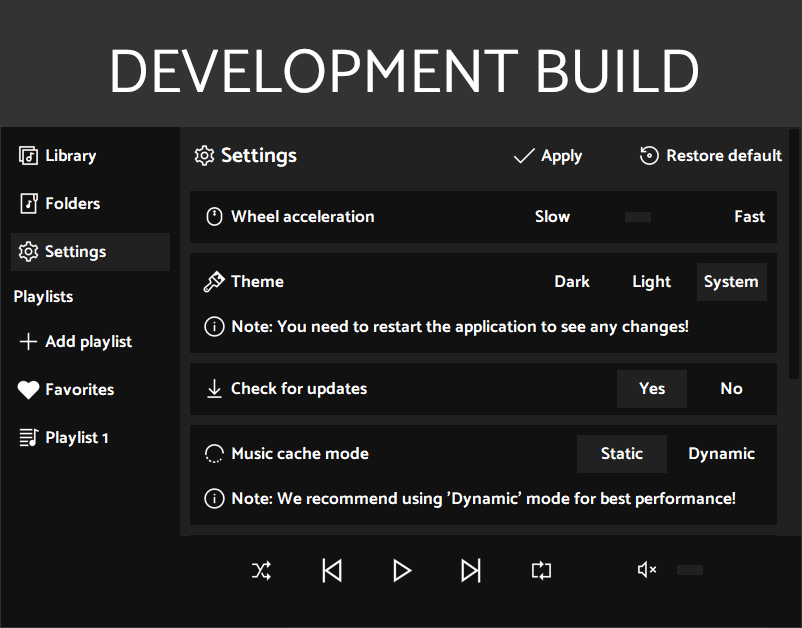
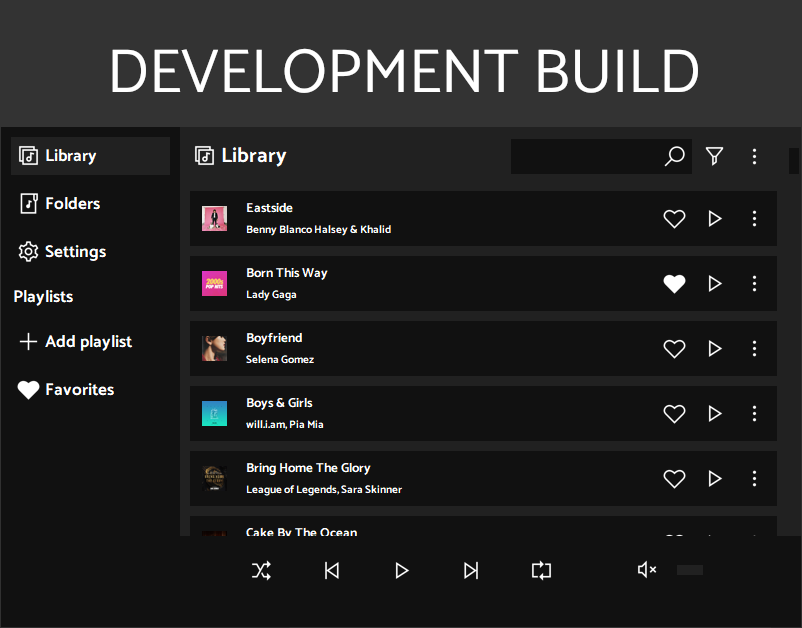
Update 0.4.7
+Added search function.
-Removed cache setting.
+Added remove functions.
+Modified cache function.

diff --git a/src/Sounder5.py b/src/Sounder5.py
@@ -3,13 +3,14 @@ try:
     from tkinter import Tk, ttk, StringVar, BooleanVar, DoubleVar, Canvas, Event
     from tkinter.filedialog import askdirectory
     from tkinter.messagebox import askyesno
-    from os.path import isfile, join, isdir, basename, abspath, join
+    from os.path import isfile, join, isdir, basename, abspath, join, splitext, dirname
     from os import startfile, listdir # getcwd, listdir, startfile, remove
     from json import load, dump
     from json.decoder import JSONDecodeError
     from logging import basicConfig, error, ERROR, getLevelName, getLogger, shutdown
     from traceback import format_exc
     from PIL import Image, ImageTk
+    from io import BytesIO
     from random import choices
     from string import ascii_uppercase, digits
     from Components.SystemTheme import get_theme
@@ -18,6 +19,8 @@ try:
     from requests import get
     from threading import Thread
     from mutagen.mp3 import MP3
+    from mutagen.flac import FLAC
+    from re import findall
 except ImportError as err:
     exit(err)
 
@@ -65,9 +68,9 @@ class Sounder(Tk):
     def init_settings(self: ClassVar) -> None:
         try:
             # variables
-            default_settings: dict = {'scan_subfolders': False, 'geometry': '800x500', 'wheel_acceleration': 1.0, 'updates': True, 'folders': [], 'use_system_theme': True, 'theme': 'Light', 'page': 'Library', 'playlists': {'Favorites': {'Name': 'Favorites', 'Songs': []}}}
+            default_settings: dict = {'filter': 'A-Z', 'scan_subfolders': False, 'geometry': '800x500', 'wheel_acceleration': 1.0, 'updates': True, 'folders': [], 'use_system_theme': True, 'theme': 'Light', 'page': 'Library', 'playlists': {'Favorites': {'Name': 'Favorites', 'Songs': []}}}
             self.settings: dict = {}
-            self.version: tuple = ('0.4.6', '281220')
+            self.version: tuple = ('0.4.7', '281220')
             # load settings
             if isfile('Resources\\Settings\\Settings.json'):
                 with open('Resources\\Settings\\Settings.json', 'r') as data:
@@ -147,7 +150,6 @@ class Sounder(Tk):
         self.layout.configure('fourth.TLabel', background=theme[self.settings['theme']][1], font=('catamaran 16 bold'))
         self.layout.configure('sixth.TLabel', background=theme[self.settings['theme']][1])
         self.layout.configure('seventh.TLabel', background=theme[self.settings['theme']][0], font=('catamaran 10 bold'))
-
         self.layout.configure('eighth.TLabel', background=theme[self.settings['theme']][0], font=('catamaran 8 bold'))
         # radiobutton
         self.layout.configure('TRadiobutton', background=theme[self.settings['theme']][0], relief='flat', font=('catamaran 13 bold'), foreground=theme[self.settings['theme']][3], anchor='w', padding=5, width=12)
@@ -216,6 +218,7 @@ class Sounder(Tk):
         # variables
         self.menu_option: StringVar = StringVar(value=self.settings['page'])
         self.menu_playlist: StringVar = StringVar(value=self.settings['page'])
+        self.filter: StringVar = StringVar(value=self.settings['filter'])
         self.last_panel: str = ''
         self.folder_panels: dict = {}
         self.song_panels: dict = {}
@@ -261,8 +264,8 @@ class Sounder(Tk):
         self.playlist_an.pack(side='left', anchor='c', padx=(10, 0))
         self.playlist_an.bind('<Double-Button-1>', lambda _: self.playlist_options.lift())
         # playlist menu button
-        ttk.Button(self.playlist_panel, image=self.icons['menu'], style='second.TButton', command=lambda: self.playlist_options.lift()).pack(side='right', anchor='c', padx=(10, 0))
-        ttk.Button(self.playlist_panel, image=self.icons['filter'], style='second.TButton').pack(side='right', anchor='c', padx=(10, 0))
+        ttk.Button(self.playlist_panel, image=self.icons['menu'], style='second.TButton', command=lambda: self.playlist_options.lift()).pack(side='right', anchor='c', padx=(0, 15))
+        ttk.Button(self.playlist_panel, image=self.icons['filter'], style='second.TButton').pack(side='right', anchor='c', padx=(0, 5))
         self.playlist_panel.place(x=0, y=0, relwidth=1, relheight=1)
         # playlist options
         self.playlist_options: ClassVar = ttk.Frame(player_options_panel)
@@ -289,15 +292,15 @@ class Sounder(Tk):
         # library options
         self.library_options: ClassVar = ttk.Frame(player_options_panel)
         ttk.Label(self.library_options, image=self.icons['library'], text='Library', style='fourth.TLabel', compound='left').pack(side='left', anchor='c', padx=(10, 0))
-        ttk.Button(self.library_options, image=self.icons['menu'], style='second.TButton').pack(side='right', anchor='c')
-        ttk.Button(self.library_options, image=self.icons['filter'], style='second.TButton').pack(side='right', anchor='c', padx=(0, 10))
+        ttk.Button(self.library_options, image=self.icons['menu'], style='second.TButton').pack(side='right', anchor='c', padx=(0, 15))
+        ttk.Button(self.library_options, image=self.icons['filter'], style='second.TButton').pack(side='right', anchor='c', padx=(0, 5))
         # library search bar
         search_panel: ClassVar = ttk.Frame(self.library_options)
         self.lib_search: ClassVar = ttk.Button(search_panel, image=self.icons['search'], style='second.TButton', command=self.open_search)
         self.lib_search.pack(side='right', anchor='c')
         self.lib_entry: ClassVar =ttk.Entry(search_panel, exportselection=False, font=('catamaran 15 bold'), width=12, style='second.TEntry')
         self.lib_entry.bind('<Return>', self.search)
-        search_panel.pack(side='right', anchor='c', padx=(0, 10))
+        search_panel.pack(side='right', anchor='c', padx=(0, 5))
         self.library_options.place(x=0, y=0, relwidth=1, relheight=1)
         player_options_panel.pack(side='top', fill='x', ipady=28.5)
         # player content
@@ -330,14 +333,6 @@ class Sounder(Tk):
         ttk.Label(settings_acceleration, text='Fast').pack(side='right', anchor='c', fill='y', pady=10, padx=10)
         ttk.Scale(settings_acceleration, variable=self.wheel_acceleration, from_=0, to=8, command=self.change_acceleration).pack(side='right', anchor='c', fill='x', ipadx=20)
         ttk.Label(settings_acceleration, text='Slow').pack(side='right', anchor='c', fill='y', pady=10, padx=10)
-        # cache
-        settings_cache: ClassVar = ttk.Frame(self.player_content, style='second.TFrame')
-        cache_panel: ClassVar = ttk.Frame(settings_cache, style='second.TFrame')
-        ttk.Label(cache_panel, image=self.icons['cache'], text='Music cache mode', compound='left').pack(side='left', anchor='c', fill='y')
-        ttk.Radiobutton(cache_panel, text='Dynamic', style='third.TRadiobutton', value='Dynamic').pack(side='right', anchor='c')
-        ttk.Radiobutton(cache_panel, text='Static', style='third.TRadiobutton', value='Static').pack(side='right', anchor='c', padx=(10, 10))
-        cache_panel.pack(side='top', fill='x', pady=10, padx=10)
-        ttk.Label(settings_cache, image=self.icons['info'], text='Note: We recommend using \'Dynamic\' mode for best performance!', compound='left').pack(side='top', fill='x', padx=10, pady=(0, 10))
         # updates
         settings_updates: ClassVar = ttk.Frame(self.player_content, style='second.TFrame')
         ttk.Label(settings_updates, image=self.icons['download'], text='Check for updates', compound='left').pack(side='left', anchor='c', fill='y', pady=10, padx=10)
@@ -358,8 +353,17 @@ class Sounder(Tk):
         ttk.Radiobutton(subfolders_panel, text='Yes', style='second.TRadiobutton', value=True, variable=self.scan_subfolders, command=self.change_subfolders).pack(side='right', anchor='c')
         subfolders_panel.pack(side='top', fill='x', pady=10, padx=10)
         ttk.Label(settings_subfolders, image=self.icons['info'], text='Note: Scanning subfolders may affect performance!', compound='left').pack(side='top', fill='x', padx=10, pady=(0, 10))
-        # update variable
-        self.settings_panels = (settings_acceleration, settings_theme, settings_subfolders, settings_cache, settings_updates, settings_about)
+        # file types
+        settings_filter: ClassVar = ttk.Frame(self.player_content, style='second.TFrame')
+        filter_panel: ClassVar = ttk.Frame(settings_filter, style='second.TFrame')
+        ttk.Label(filter_panel, image=self.icons['filter'], text='Songs filter', compound='left').pack(side='left', anchor='c', fill='y')
+        ttk.Radiobutton(filter_panel, text='No', style='second.TRadiobutton', value=False).pack(side='right', anchor='c', padx=(10, 0))
+        ttk.Radiobutton(filter_panel, text='Yes', style='second.TRadiobutton', value=True).pack(side='right', anchor='c')
+        filter_panel.pack(side='top', fill='x', pady=10, padx=10)
+
+
+        # panels variable
+        self.settings_panels = (settings_acceleration, settings_theme, settings_subfolders, settings_filter, settings_updates, settings_about)
         # bottom panel
         player_bot_panel: ClassVar = ttk.Frame(self.player_panel, style='second.TFrame')
         # buttons, song name, etc ...
@@ -407,15 +411,13 @@ class Sounder(Tk):
         self.songs_cache: dict = {}
         # scan folders
         self.scan_folders()
+        # verify playlists
+        self.verify_playlist()
         # show last panel
         if self.settings['page'] in ('Library', 'Folders', 'Settings'):
             self.show_panel()
         else:
             self.show_playlist()
-        # if not self.settings['page'] in self.settings['playlists']:
-        #     self.show_panel()
-        # else:
-        #     self.show_playlist()
 
     def exit_app(self: ClassVar) -> None:
         self.withdraw()
@@ -450,6 +452,10 @@ class Sounder(Tk):
                 for song in self.song_panels:
                     if self.song_panels[song].winfo_ismapped():
                         self.song_panels[song].pack_forget()  
+            if self.last_panel in self.settings['playlists']:
+                for song in self.settings['playlists'][self.last_panel]['Songs']:
+                    if song in self.songs and self.song_panels[song].winfo_ismapped():
+                        self.song_panels[song].pack_forget()  
             # pack
             if panel == 'Folders':
                 for folder in self.folder_panels:
@@ -460,18 +466,9 @@ class Sounder(Tk):
                     if not setting.winfo_ismapped():
                         setting.pack(side='top', fill='x', pady=5, padx=10)
             if panel == 'Library':
-                # apply flter
-                # apply search
-                # apply mode
-                for song in self.song_panels:
-                    if not self.song_panels[song].winfo_ismapped():
-                        self.song_panels[song].pack(side='top', fill='x', pady=5, padx=10)
+                self.sort_panels('', self.songs)
             if panel in self.settings['playlists']:
-                # apply flter
-                # apply mode
-                for song in self.settings['playlists'][panel]['Songs']:
-                    if not self.song_panels[song].winfo_ismapped():
-                        self.song_panels[song].pack(side='top', fill='x', pady=5, padx=10)
+                self.sort_panels('', self.settings['playlists'][panel]['Songs'])
         self.last_panel = panel
 
     def open_logs(self: ClassVar) -> None:
@@ -559,12 +556,23 @@ class Sounder(Tk):
         except Exception as err_obj:
             self.log(err_obj)
 
+    def verify_playlist(self: ClassVar) -> None:
+        try:
+            for playlist in self.settings['playlists']:
+                for song in self.settings['playlists'][playlist]['Songs']:
+                    if song not in self.songs:
+                        self.settings['playlists'][playlist]['Songs'].remove(song)
+        except Exception as err_obj:
+            self.log(err_obj)
+
     def new_folder(self: ClassVar) -> None:
         new_dir: str = askdirectory()
         if new_dir and new_dir not in self.settings['folders']:
+            new_dir = abspath(new_dir)
             self.settings['folders'].append(new_dir)
             self.add_folder(new_dir)
             self.folder_panels[new_dir].pack(side='top', fill='both', expand=True, pady=5, padx=10)
+            Thread(target=self.scan_folders, daemon=True).start()
         del new_dir
 
     def add_folder(self: ClassVar, path: str) -> None:
@@ -582,7 +590,16 @@ class Sounder(Tk):
         if askyesno('Remove folder', 'Are you sure you want to remove this folder?', icon='warning') and path in self.settings['folders']:
             self.folder_panels[path].destroy()
             self.settings['folders'].remove(path)
+            self.remove_songs(path)
             del self.folder_panels[path]
+
+    def remove_songs(self: ClassVar, path: str) -> None:
+        path = abspath(path)
+        temp_songs: list = self.songs.copy()
+        for song in temp_songs:
+            if dirname(song) == path:
+                self.remove_song(song)
+        del temp_songs
 
     def scan_folders(self: ClassVar) -> None:
         try:
@@ -593,7 +610,7 @@ class Sounder(Tk):
                         if file.endswith(('.mp3', '.flac', '.wav', '.ogg')) and file not in self.songs:
                             self.songs.append(abspath(join(folder, file)))              
                         elif isdir(join(folder, file)) and file not in ('System Volume Information', '$RECYCLE.BIN') and file not in folders:
-                            folders.append(join(folder, file))
+                            folders.append(abspath(join(folder, file)))
                 del folders
             else:
                 for folder in self.settings['folders']:
@@ -653,36 +670,79 @@ class Sounder(Tk):
         del entry_content
 
     def search(self: ClassVar, _: Event=None) -> None:
-        allowed_chars: str = 'abcdefghijklmnopqrstuvwxyz123456789.'
+        allowed_chars: str = 'abcdefghijklmnopqrstuvwxyz123456789. '
         entry_content: str = self.lib_entry.get().lower()
         clean_content: str = ''
         for letter in entry_content:
             if letter in allowed_chars:
                 clean_content += letter
-        print(clean_content)
+        self.sort_panels(clean_content, self.songs)
+        del allowed_chars, entry_content, clean_content
+
+    def sort_panels(self: ClassVar, search_word: str, songs: list) -> None:
+        temp_songs: list = []
+        song_filter: str = self.filter.get()
+        # apply search
+        if search_word:
+            for song in songs:
+                result = f'{self.songs_cache[song]["title"]} {self.songs_cache[song]["artist"]} {self.songs_cache[song]["album"]} {song}'
+                if findall(search_word, result.lower()):
+                    temp_songs.append(song)
+        else:
+            temp_songs = songs.copy()
+        # apply filter
+        if song_filter == 'A-Z':
+            temp_songs.sort()
+        elif song_filter == 'Z-A':
+            temp_songs.sort(reverse=True)
+        # forget panels
+        for song in list(set(temp_songs)^set(songs)):
+            if song in self.songs and song in self.song_panels and self.song_panels[song].winfo_ismapped():
+                self.song_panels[song].pack_forget()
+        # pack panels
+        for song in temp_songs:
+            if song in self.songs and song in self.song_panels and not self.song_panels[song].winfo_ismapped():
+                self.song_panels[song].pack(side='top', fill='x', pady=5, padx=10)
+        del temp_songs, song_filter
 
     def cache_song(self: ClassVar, song: str) -> None:
         album_art: ClassVar = self.icons['note']
-        song_title: str = basename(song)
+        song_title: str = splitext(song)[0]
         song_artist: str = 'Unknown'
         album: str = 'Unknown'
-
+        song_metadata: ClassVar = None
         if song.endswith('.mp3'):
             song_metadata: ClassVar = MP3(song)
-
-
-        self.songs_cache[song]: dict =  {'title': song_title, 'artist': song_artist, 'album': album, 'album_art': album_art}
-
+            if 'TIT2' in song_metadata:
+                song_title = song_metadata['TIT2']
+            if 'TPE1' in song_metadata:
+                song_artist = song_metadata['TPE1']
+            if 'TALB' in song_metadata:
+                album = song_metadata['TALB']
+            if 'APIC:' in song_metadata:
+                album_art = ImageTk.PhotoImage(Image.open(BytesIO(song_metadata.get('APIC:').data)).resize((25, 25)))
+        elif song.endswith('.flac'):
+            song_metadata: ClassVar = FLAC(song)
+            if 'title' in song_metadata:
+                song_title = song_title.join(song_metadata['title'])
+            if 'artist' in song_metadata:
+                song_artist = song_artist.join(song_metadata['artist'])
+            if 'album' in song_metadata:
+                album = album.join(song_metadata['album'])
+            if song_metadata.pictures:
+                album_art = ImageTk.PhotoImage(Image.open(BytesIO(song_metadata.pictures[0].data)).resize((25, 25)))
+        # cache data
+        self.songs_cache[song]: dict =  {'title': song_title, 'artist': song_artist, 'album': album, 'album_art': album_art, 'length': song_metadata.info.length}
+        del album_art, song_artist, song_title, album, song_metadata
 
     def new_song(self: ClassVar, song: str) -> None:
         self.cache_song(song)
-
         self.add_song(song)
 
     def add_song(self: ClassVar, song: str) -> None:
         try:
             self.song_panels[song]: ClassVar = ttk.Frame(self.player_content, style='second.TFrame')
-            ttk.Label(self.song_panels[song], image=self.songs_cache[song]['album_art']).pack(side='left', anchor='c', fill='y', pady=10, padx=10)
+            ttk.Label(self.song_panels[song], image=self.songs_cache[song]['album_art']).pack(side='left', anchor='c', pady=10, padx=10)
             info_frame: ClassVar = ttk.Frame(self.song_panels[song], style='second.TFrame')
             ttk.Label(info_frame, text=f'{self.songs_cache[song]["title"]}', style='seventh.TLabel').place(x=5, y=5)
             ttk.Label(info_frame, text=f'{self.songs_cache[song]["artist"]}', style='eighth.TLabel').place(x=5, y=28)
@@ -696,9 +756,13 @@ class Sounder(Tk):
             self.log(err_obj)
 
     def remove_song(self: ClassVar, song: str) -> None:
-        if song in self.song_panels:
-            self.song_panels[song].destroy()
-            del self.song_panels[song]
+        try:
+            if song in self.song_panels and song in self.songs:
+                self.song_panels[song].destroy()
+                del self.song_panels[song], self.songs_cache[song]
+                self.songs.remove(song)
+        except Exception as err_obj:
+            self.log(err_obj)
 
     def favorites_song(self: ClassVar, song: str) -> None:
         if song in self.settings['playlists']['Favorites']['Songs']:

diff --git a/README.md b/README.md
@@ -2,8 +2,7 @@
 
 ## Music player written in python
 
-Note: Sounder is still in development
-Please keep in mind that the final appearance may change
+Note: Sounder is still in development. Please keep in mind that the final appearance may change!
 
 #
 
@@ -11,18 +10,20 @@ Please keep in mind that the final appearance may change
 
 ## Used Libraries
 
-- tkinter
-- pillow
-- mutagen
-- requests
-- threading
-- os
 - typing
+- tkinter
+- os
 - json
 - logging
 - traceback
+- PIL
+- io
 - random
 - string
+- requests
+- threading
+- mutagen
+- re
 
 ### Sounder logo
 
@@ -40,7 +41,6 @@ Usability:
 - Add proper version checking and build checking for update.
 - Add a check for file size when adding songs.
 - Create a new engine for managing the playback of songs.
-- Write godlike search function.
 
 Visual:
 
@@ -52,10 +52,9 @@ Technical:
 
 - Add a function that disables music playback on crash.
 - Improve performance of some functions.
-- Improve error handling / reporting. 
+- Improve error handling / reporting.
 - Reduce startup time.
 - Add updater.
-- Modify a scanning function to scan for folders inside a folders.
 
 #
 
